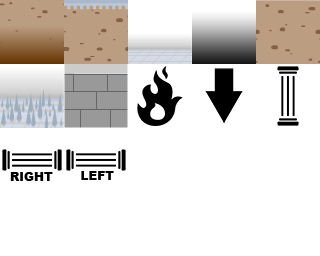
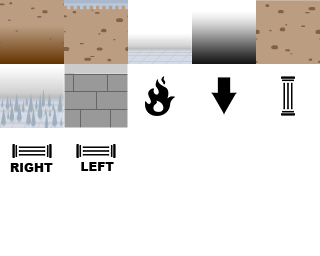
fix beamtrap

diff --git a/client/traps/beamtrap.js b/client/traps/beamtrap.js
@@ -1,11 +1,27 @@
-function BeamTrap(id, trigger, threshold) {
+function BeamTrap(id, trigger, threshold, direction) {
 	Trap.call(this, id, trigger, threshold);
 
+	this.direction = direction;
 	this.beam = Crafty.e("2D, Canvas, SpriteAnimation, BeamSprite, Deathzone")
-					.attr({x: trigger.x + 28.5, y: trigger.y + 16, w: 25*2, h: 198*2})
+					.attr({w: 25*2, h: 198*2})
 					.reel('Firing', 300, 0, 0, 3)
 					.animate('Firing', -1);
 
+	switch (this.direction) {
+		case 'up':
+			this.beam.rotation = 180;
+			this.beam.attr({x: trigger.x + 40, y: trigger.y + 40 });
+			break;
+		case 'right':
+			this.beam.rotation = 90;
+			this.beam.attr({x: trigger.x + 24, y: trigger.y + 40 });
+			break;
+		case 'left':
+			this.beam.rotation = 270
+			this.beam.attr({x: trigger.x - 24, y: trigger.y + 40 });
+			break;
+	}
+	
 	this.reset();
 }
 
@@ -22,7 +38,6 @@ BeamTrap.prototype.activate = function() {
 BeamTrap.prototype.reset = function() {
 	Trap.prototype.reset.call(this);
 
-	this.beam.rotation = 180;
 	this.beam.visible = false;
 
 	if(player.is_controller) {

diff --git a/client/board.js b/client/board.js
@@ -69,9 +69,17 @@ var board = {
 					trap.y += board.tileheight / 2;
 					trap.h = board.tileheight / 2;
 					break;
-				// Laser
+				// Laser Up
 				case 10:
-					traps[trapId] = new BeamTrap(trapId, trap, 1);
+					traps[trapId] = new BeamTrap(trapId, trap, 1, 'up');
+					break;
+				// Laser Right
+				case 11:
+					traps[trapId] = new BeamTrap(trapId, trap, 1, 'right');
+					break;
+				// Laser Left
+				case 12:
+					traps[trapId] = new BeamTrap(trapId, trap, 1, 'left');
 					break;
 			}
 
